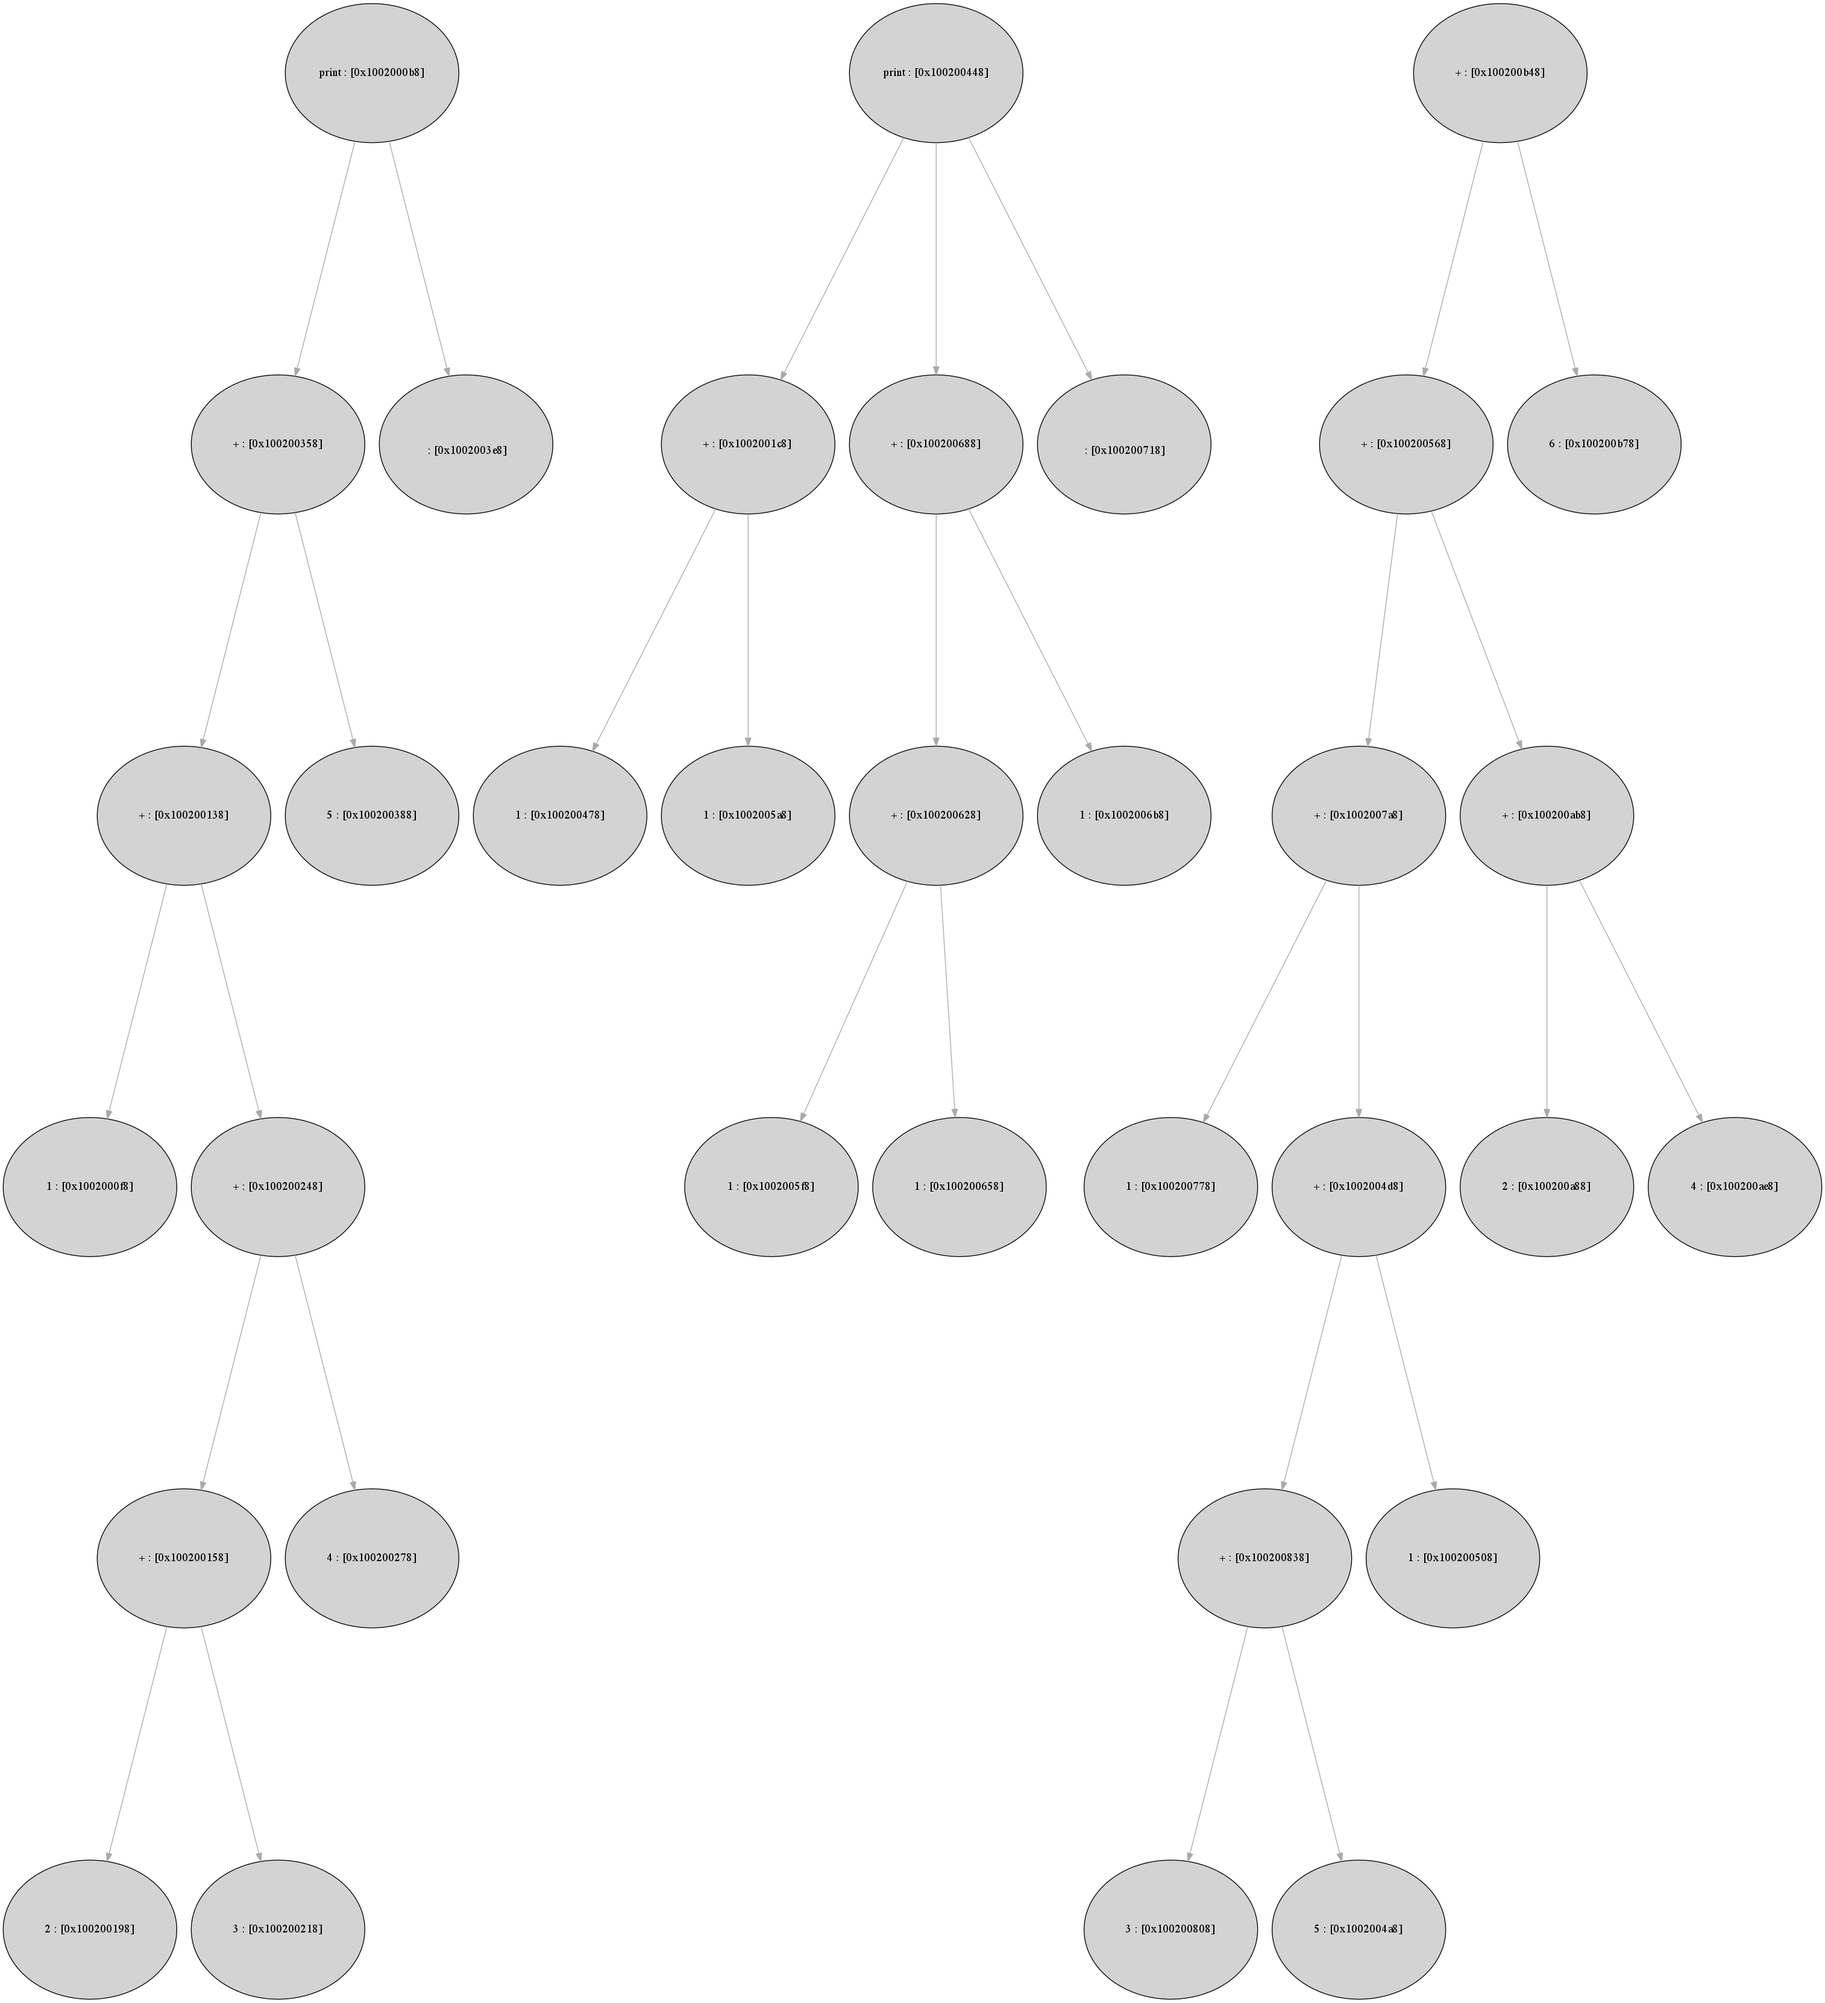
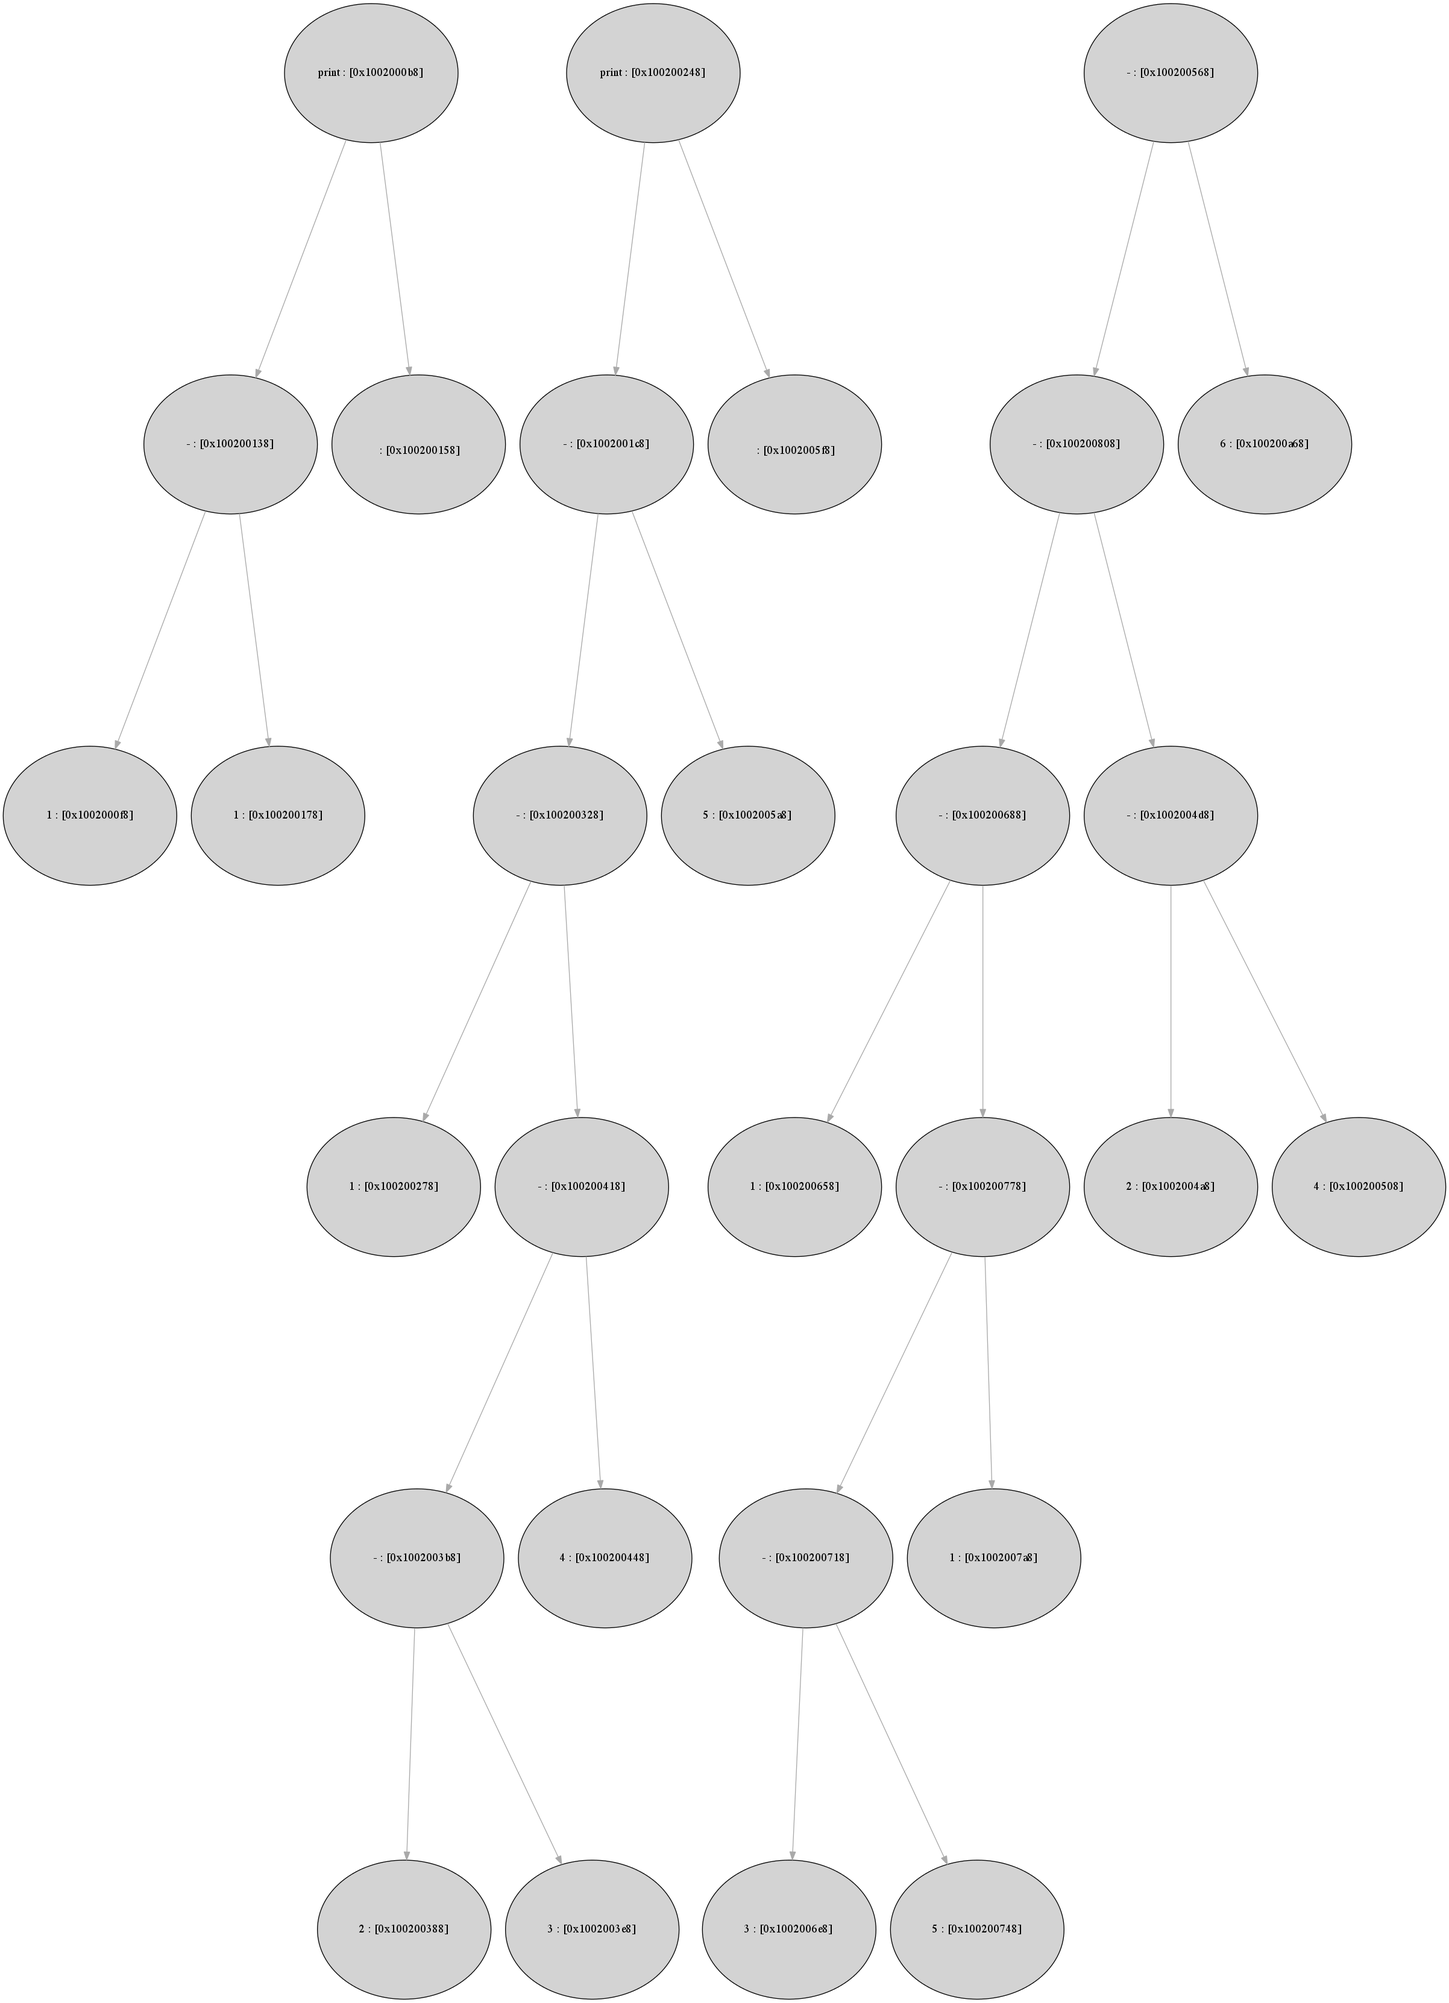
supported sub operation

diff --git a/src/compiler.cpp b/src/compiler.cpp
@@ -39,7 +39,9 @@ void GPerlCompiler::compile_(GPerlCell *path, bool isRecursive)
 	GPerlVirtualMachineCode *code;
 	GPerlCell *p = path;
 	for (;p->vargs && isRecursive; p = p->vargs) {
+		//path : PrintDecl
 		compile_(p->vargs, false);
+		//add WRITE CODE for Print Stmt
 		switch (reg_type[0]) {
 		case Int:
 			code = createiWRITE();
@@ -114,7 +116,27 @@ GPerlVirtualMachineCode *GPerlCompiler::createVMCode(GPerlCell *c)
 		break;
 	case Add:
 		dst--;
-		code->op = OPADD;
+		switch (reg_type[dst - 1]) {
+		case Int:
+			code->op = OPiADD;
+			break;
+		default:
+			code->op = OPADD;
+			break;
+		}
+		code->dst = dst - 1;
+		code->src = dst;
+		break;
+	case Sub:
+		dst--;
+		switch (reg_type[dst - 1]) {
+		case Int:
+			code->op = OPiSUB;
+			break;
+		default:
+			code->op = OPSUB;
+			break;
+		}
 		code->dst = dst - 1;
 		code->src = dst;
 		break;
@@ -180,6 +202,15 @@ void GPerlCompiler::dumpVMCode(GPerlVirtualMachineCode *code)
 		break;
 	case OPADD:
 		DBG_P("L[%d] : OPADD [%d], [%d]", code->code_num, code->dst, code->src);
+		break;
+	case OPiADD:
+		DBG_P("L[%d] : OPiADD [%d], [%d]", code->code_num, code->dst, code->src);
+		break;
+	case OPSUB:
+		DBG_P("L[%d] : OPSUB [%d], [%d]", code->code_num, code->dst, code->src);
+		break;
+	case OPiSUB:
+		DBG_P("L[%d] : OPiSUB [%d], [%d]", code->code_num, code->dst, code->src);
 		break;
 	case OPRET:
 		DBG_P("L[%d] : OPRET [%d], [%d]", code->code_num, code->dst, code->src);

diff --git a/src/vm.cpp b/src/vm.cpp
@@ -34,7 +34,8 @@ int GPerlVirtualMachine::run(GPerlVirtualMachineCode *codes)
 	char shared_buf[128] = {0};//TODO must be variable buffer
 	string outbuf = "";
 	static void *jmp_table[] = {
-		&&L(OPMOV), &&L(OPiMOV), &&L(OPsMOV), &&L(OPADD), &&L(OPRET), &&L(OPTHCODE), &&L(OPNOP),
+		&&L(OPMOV), &&L(OPiMOV), &&L(OPsMOV), &&L(OPADD), &&L(OPiADD),
+		&&L(OPSUB), &&L(OPiSUB), &&L(OPRET), &&L(OPTHCODE), &&L(OPNOP),
 		&&L(OPiWRITE), &&L(OPsWRITE), &&L(OPPRINT), /*&&L(OPSUB), &&L(OPMUL), &&L(OPDIV),
 		&&L(OPCALL), &&L(OPJMP), &&L(OPCMP), &&L(OPPOP), &&L(OPPUSH),
 		&&L(OPRET), &&L(OPJL), &&L(OPJG), &&L(OPSTORE), &&L(OPLOAD),
@@ -64,6 +65,24 @@ int GPerlVirtualMachine::run(GPerlVirtualMachineCode *codes)
 	CASE(OPADD) {
 		DBG_P("OPADD");
 		reg.idata[pc->dst] += reg.idata[pc->src];
+		pc++;
+		GOTO_NEXTOP();
+	}
+	CASE(OPiADD) {
+		DBG_P("OPiADD");
+		reg.idata[pc->dst] += reg.idata[pc->src];
+		pc++;
+		GOTO_NEXTOP();
+	}
+	CASE(OPSUB) {
+		DBG_P("OPSUB");
+		reg.idata[pc->dst] -= reg.idata[pc->src];
+		pc++;
+		GOTO_NEXTOP();
+	}
+	CASE(OPiSUB) {
+		DBG_P("OPiSUB");
+		reg.idata[pc->dst] -= reg.idata[pc->src];
 		pc++;
 		GOTO_NEXTOP();
 	}

diff --git a/src/parse.cpp b/src/parse.cpp
@@ -87,7 +87,6 @@ void GPerlAST::show(void)
 		GraphvizNode *root_node = createNode(graph, (const char *)buf);//root_name);
 		this->root_node = root_node;
 		draw(graph, stmt, root_node);
-		fprintf(stderr, "hogehgoe\n");
 		//fprintf(stderr, "root_name = [%s]\n", root_name);
 		//fprintf(stderr, "root->next = [%p]\n", root->next);
 		//fprintf(stderr, "root = [%p]\n", root);
@@ -241,6 +240,9 @@ GPerlAST *GPerlParser::parse(vector<Token *> *tokens)
 			GPerlCell *op;
 			if (t->data == "+") {
 				op = new GPerlCell(Add);
+				op->rawstr = t->data;
+			} else if (t->data == "-") {
+				op = new GPerlCell(Sub);
 				op->rawstr = t->data;
 			}
 			//fprintf(stderr, "op = [%p]\n", op);

diff --git a/src/token.cpp b/src/token.cpp
@@ -252,6 +252,9 @@ void GPerlTokenizer::annotateTokens(vector<Token *> *tokens)
 		} else if  (t->data == "+") {
 			t->type = Operator;
 			cur_type = Operator;
+		} else if (t->data == "-") {
+			t->type = Operator;
+			cur_type = Operator;
 		} else if (cur_type == VarDecl && t->data.find("$") != -1) {
 			t->type = LocalVar;
 			vardecl_list.push_back(t->data);

diff --git a/include/gperl.hpp b/include/gperl.hpp
@@ -24,6 +24,7 @@ typedef enum {
 	Undefined = -1,
 	Return,
 	Add,
+	Sub,
 	FunctionDecl,
 	FieldDecl,
 	TypeRef,
@@ -50,6 +51,9 @@ typedef enum {
 	OPiMOV,
 	OPsMOV,
 	OPADD,
+	OPiADD,
+	OPSUB,
+	OPiSUB,
 	OPRET,
 	OPTHCODE,
 	OPNOP,
